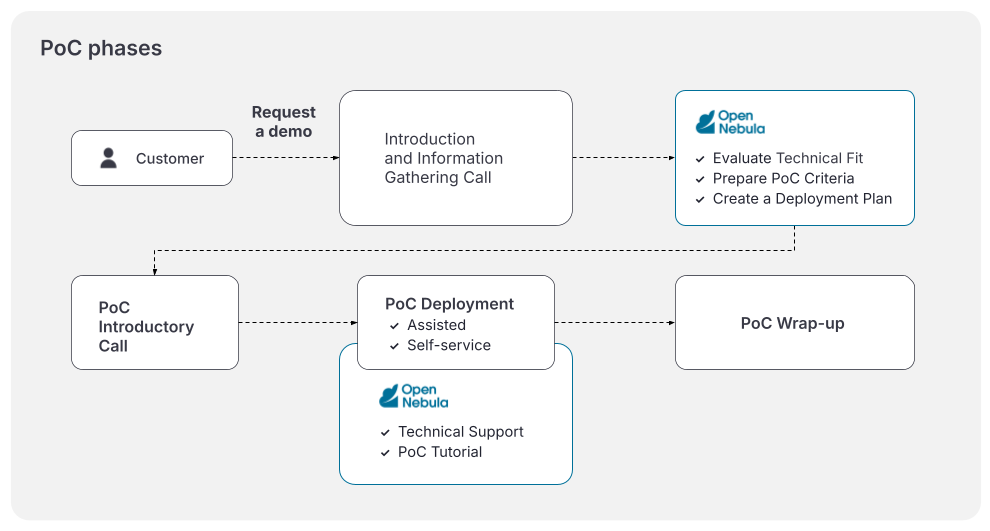
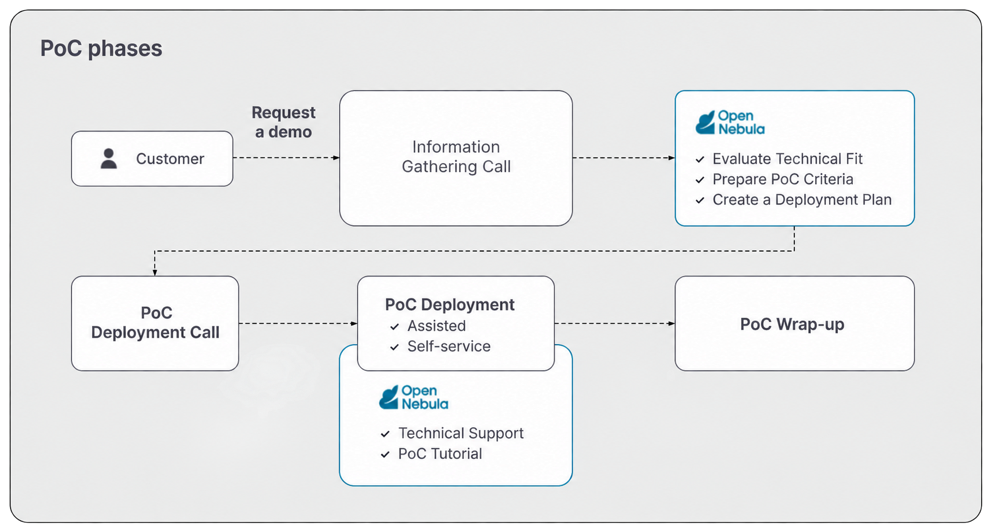
M #-: Adjust PoC workplan

diff --git a/content/solutions/engineering_blueprints/ee_poc/poc_workplan.md b/content/solutions/engineering_blueprints/ee_poc/poc_workplan.md
@@ -60,29 +60,31 @@ Personnel who execute and operate the OpenNebula PoC are expected to possess the
 
 {{< image path="/images/ISO/poc_diagram.png" align="center" width="90%" mb="20px">}}
 
-### Request a Demo
+### 1. Request a Demo
 
 The first step is to request a live demo. Contact us by [filling the demonstration request form](https://opennebula.io/evaluate-opennebula/#request-demo) or by email at sales@opennebula.io.
 
-### Introduction and Information Gathering Call
+### 2. Information Gathering Call {#information-gathering-call}
 
-During this introductory call you communicate with OpenNebula's solution architects to discuss the details of your use case and then establish timescales and criteria required to successfully complete the PoC and transition to an OpenNebula Enterprise Edition annual subscription. 
+During this call you communicate with OpenNebula's solution architects to discuss the details of your use case and then establish timescales and criteria required to successfully complete the PoC and transition to an OpenNebula Enterprise Edition annual subscription.
+
+We will prepare a spreadsheet describing the success criteria to be used during the PoC. It will be based on the criteria in the [Success Criteria guide]({{% relref "solutions/engineering_blueprints/ee_poc/poc_success_criteria/" %}}) and will include any custom success criteria that are within the [scope of the PoC]({{% relref "solutions/engineering_blueprints/ee_poc/poc_overview/#is-running-an-opennebula-poc-for-me" %}}).
 
 Once we complete the initial arrangements, you will be contacted by an engineer to start the deployment if Option 1 is possible, or provided with a personalized, one-time link to download the ISO file prepared specifically for your deployment to perform Option 2.
 
-### Introductory Call
+### 3. Deployment Call
 
 On the PoC kick-off date the installation will proceed with the SSH and VPN credentials shared by the potential customer. If the ISO installation method is preferred, a one-hour call will be scheduled to discuss additional details on the ISO installation process. You will be able to complete the ISO installation during the call with the support of OpenNebula Engineers, following the [ISO-based deployment guide]({{% relref "solutions/engineering_blueprints/ee_poc/ee_poc_iso/#Introduction" %}}).
 
-### Tutorial
+### 4. Tutorial
 
 A 90 minute tutorial covering the basics of OpenNebula is included in this PoC program. You will gain  enough knowledge of the OpenNebula platform to kick-start your internal evaluation.
 
-### Support
+### 5. Support
 
 Throughout the duration of the PoC, the Sales Engineering team will be the primary point of contact and will manage the testing alongside the OpenNebula engineering team who will be available through an ad-hoc mailing list to ask and solve doubts and issues you may encounter in your evaluation. This testing period will last up to a maximum of four weeks from the date you choose to start the PoC.
 
-### Wrap-up
+### 6. Wrap-up
 
-As you come to the end of the PoC testing period, a wrap-up call will be scheduled with you and the OpenNebula team as an opportunity to discuss any issues, the PoC’s results, and the next steps to transition to an annual Enterprise Edition subscription.
+As you come to the end of the PoC testing period, a wrap-up call will be scheduled with you and the OpenNebula team as an opportunity to discuss any issues, the PoC’s results, and the next steps to transition to an annual Enterprise Edition subscription. During this call, we will review the success criteria spreadsheet with you to ascertain whether the different success criteria items were correctly validated.
 <br><br>

diff --git a/content/solutions/engineering_blueprints/ee_poc/poc_success_criteria.md b/content/solutions/engineering_blueprints/ee_poc/poc_success_criteria.md
@@ -1,12 +1,12 @@
 ---
-title: "PoC Success Criteria"
+title: "Success Criteria"
 linkTitle: "Success Criteria"
 description: "Recommended success criteria for an OpenNebula Proof of Concept."
 weight: 2
 
 ---
 
-Each OpenNebula deployment is different but they all have to provide a basic set of functionalities that form a complete solution. We have assembled them in functional groups to make navigation through PoC easy and ordered. Upon completion of all tests, we can announce success and move on to the next phase. Sometimes a special requirement is needed and we add them to our plan during the [Introduction and Information Gathering Call]({{% relref "solutions/engineering_blueprints/ee_poc/poc_workplan/#introduction-and-information-gathering-call" %}}).
+Each OpenNebula deployment is different but they all have to provide a basic set of functionalities that form a complete solution. We have assembled them in functional groups to make navigation through PoC easy and ordered. Upon completion of all tests, we can announce success and move on to the next phase. Sometimes a special requirement is needed and we add them to our plan during the [Information Gathering Call]({{% relref "solutions/engineering_blueprints/ee_poc/poc_workplan/#information-gathering-call" %}}).
 
 ## Default Success Criteria
 
